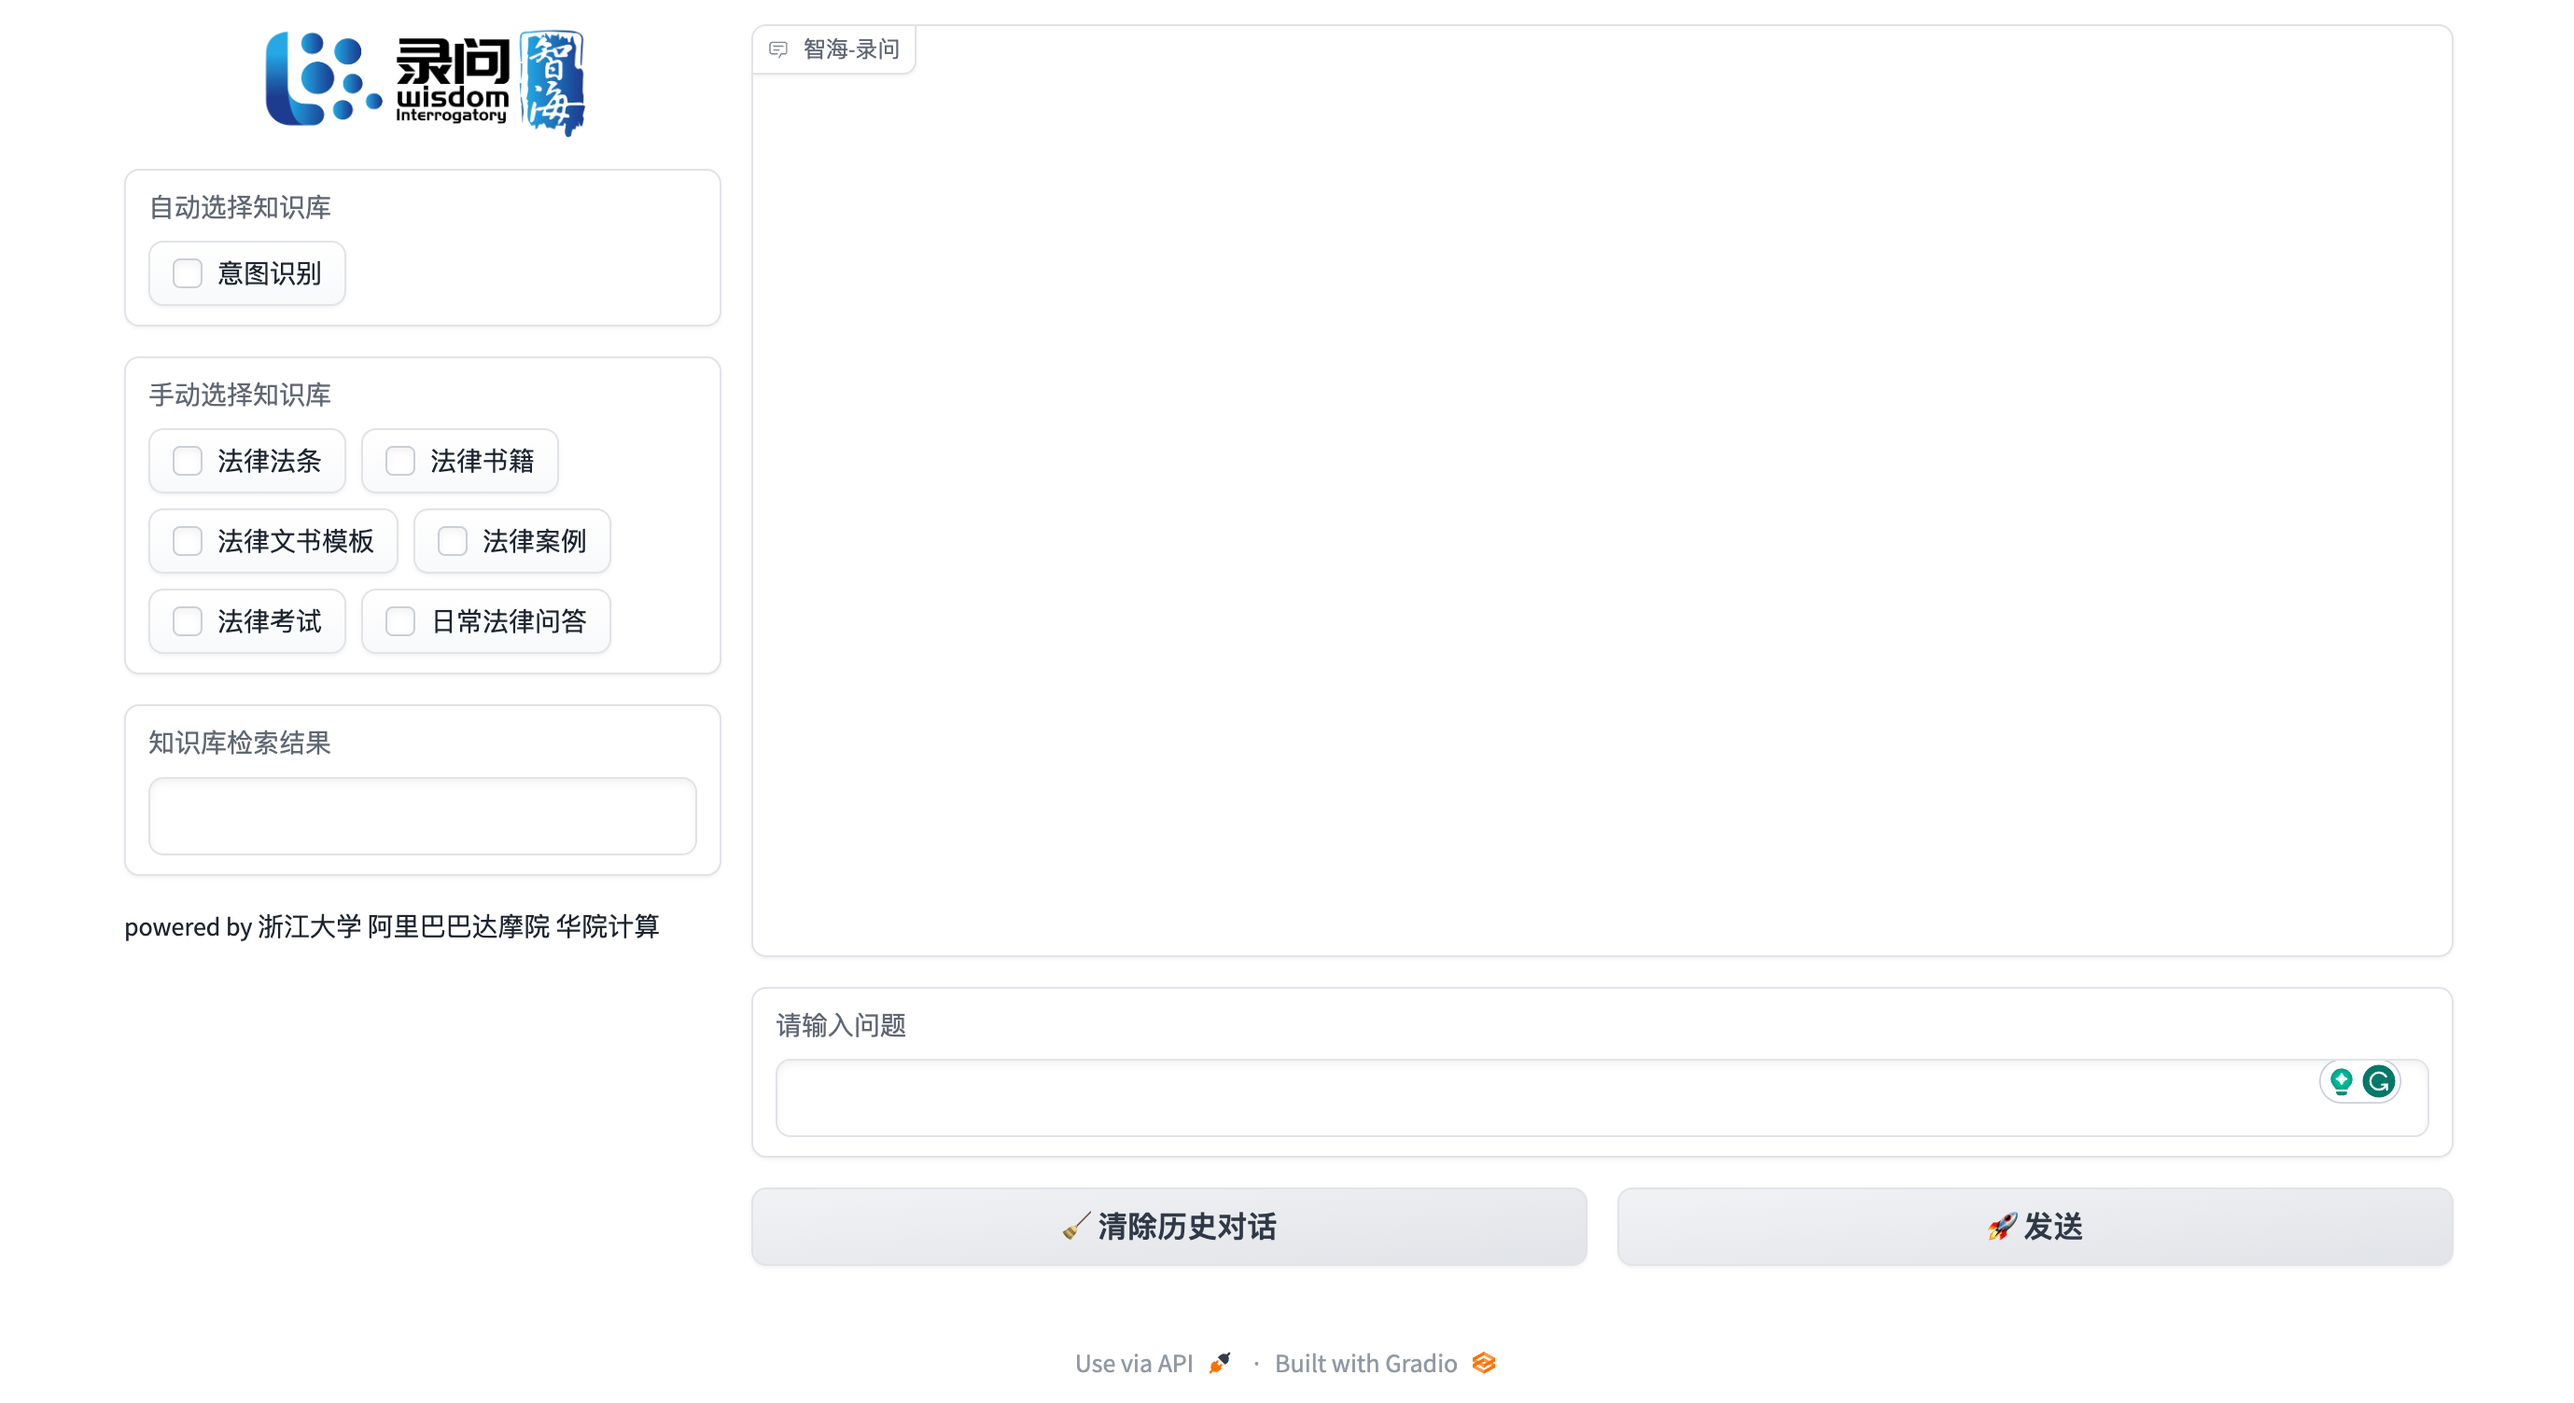
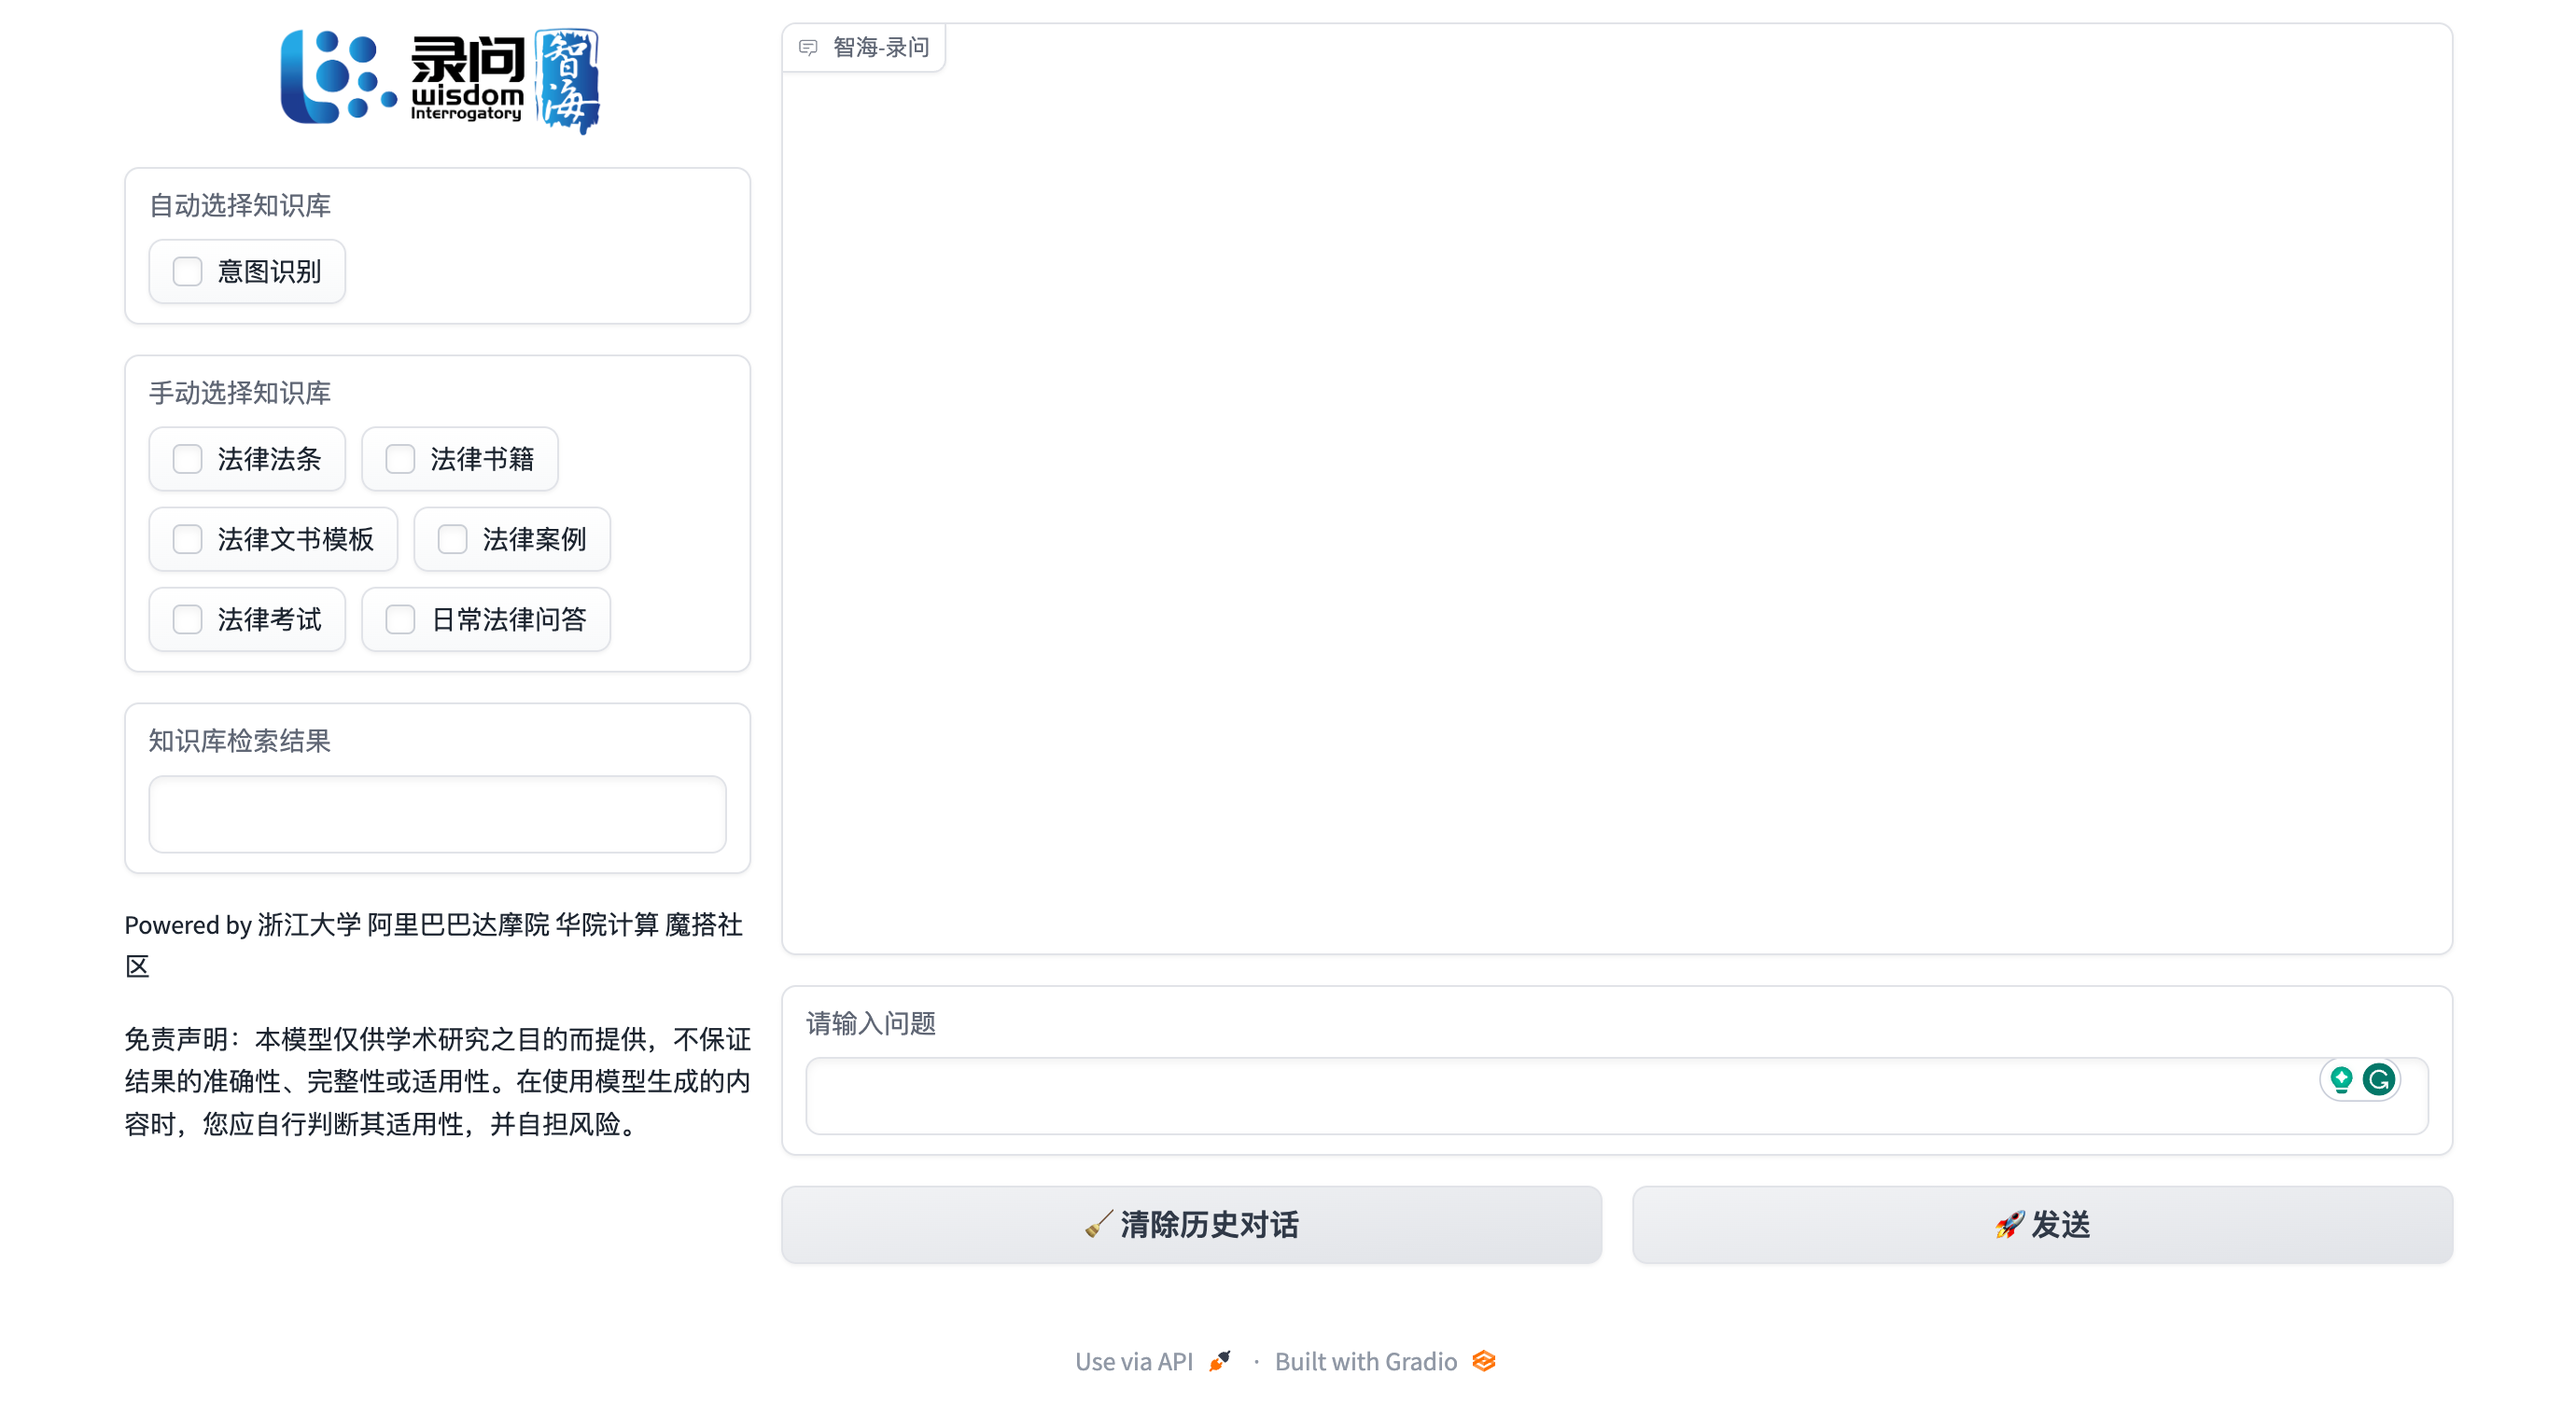
update readme

diff --git a/app/langchain_demo/code/main_stream.py b/app/langchain_demo/code/main_stream.py
@@ -50,6 +50,11 @@ def predict(input,
 
     if intention_reg==["意图识别"]:
         auto_kg_names = key_words_match_intention(input)
+        if len(auto_kg_names)==0:
+            search_text += "意图识别没有匹配到知识库。\n\n"
+        else:
+            match_kg_names = "、".join(list(auto_kg_names))
+            search_text += "意图识别匹配到知识库是："+match_kg_names+"。\n\n"
         kg_names = list(set(kg_names) | auto_kg_names)
 
     kb_based = True if len(kg_names) != 0 else False
@@ -128,7 +133,7 @@ def predict(input,
 with gr.Blocks() as demo: 
     state = gr.State()
     with gr.Row():
-        with gr.Column(scale=1):
+        with gr.Column(scale=1.5):
             github_banner_path = 'https://raw.githubusercontent.com/LIANG-star177/chatgptapi/master/logo.png'
             gr.HTML(f'<p align="center"><a href="https://github.com/LIANG-star177/chatgptapi/blob/master/logo.png"><img src={github_banner_path} height="100" width="200"/></a></p>')
             with gr.Row():       
@@ -145,8 +150,9 @@ with gr.Blocks() as demo:
                 search = gr.Textbox(label='知识库检索结果')
 
             with gr.Row():
-                gr.Markdown("""powered by 浙江大学 阿里巴巴达摩院 华院计算""")
-
+                gr.Markdown("""Powered by 浙江大学 阿里巴巴达摩院 华院计算 魔搭社区""")
+            with gr.Row():
+                gr.Markdown("""免责声明：本模型仅供学术研究之目的而提供，不保证结果的准确性、完整性或适用性。在使用模型生成的内容时，您应自行判断其适用性，并自担风险。""")
         with gr.Column(scale=4):
             with gr.Row():
                 chatbot = gr.Chatbot(label='智海-录问').style(height=500)            

diff --git a/app/langchain_demo/code/main_stream_wo_kb.py b/app/langchain_demo/code/main_stream_wo_kb.py
@@ -4,7 +4,6 @@ import re
 import torch
 import gradio as gr
 import sys
-sys.path.append("/root/data1/luwen/app/langchain_demo/code")
 from clc.langchain_application import LangChainApplication
 from transformers import StoppingCriteriaList, StoppingCriteriaList
 from clc.callbacks import Iteratorize, Stream
@@ -60,6 +59,7 @@ def predict(input,
     if len(input) > max_memory:
         input = input[-max_memory:]
 
+    kb_based = False
     print("histroy in call: ", history)
     prompt = application.llm_service.generate_prompt(input, kb_based, large_language_model)
     print("prompt: ",prompt)
@@ -115,8 +115,9 @@ with gr.Blocks() as demo:
                 clear_history = gr.Button("🧹 清除历史对话")
                 send = gr.Button("🚀 发送")
             with gr.Row():
-                gr.Markdown("""<center>powered by 浙江大学 阿里巴巴达摩院 华院计算</center>""")
-
+                gr.Markdown("""<center>Powered by 浙江大学 阿里巴巴达摩院 华院计算 魔搭社区</center>""")
+            with gr.Row():
+                gr.Markdown("""<center>免责声明：本模型仅供学术研究之目的而提供，不保证结果的准确性、完整性或适用性。在使用模型生成的内容时，您应自行判断其适用性，并自担风险。<center>""")
         send.click(predict,
                    inputs=[
                     message,

diff --git a/README.md b/README.md
@@ -17,7 +17,7 @@
 
 ### 指令微调训练
 
-经过了二次预训练之后，在指令微调阶段，我们使用了80k的指微调训练，其目的是让大模型具备问答的能力，能够直接与用户进行交流。
+经过了二次预训练之后，在指令微调阶段，我们使用了100k的指微调训练，其目的是让大模型具备问答的能力，能够直接与用户进行交流。
 
 
 1.  **数据分布**
@@ -126,15 +126,18 @@
 - 任何一个知识点都是一个[key, value]的pair，其中key是该知识点的内容简介，用于检索，而value是知识点的具体内容，用于输入到模型中作为参考。
 
 ### 知识增强
-![Alt text](pics/知识增强.png)
+![Alt text](pics/知识增强_2.png)
 1. **知识定位**
-- 意图识别
-不同问题需要不同类型的知识库来辅助问答，首先需要识别出问题意图获取哪些知识。我们通过问题中的关键词和上述五种类型知识库的特征的关键词匹配，以此识别出问题涉及的知识类型并用对应知识库辅助。
+- 意图识别（多步检索）
 
-- 知识检索
-知识库内部可以按照层级划分，比如法条库可以按照法律（刑法，民法）划分成子知识库，而刑法又可以按罪名所在章节划分成更细粒度的子知识库。我们通过检索模型embedding进行多层级的相似度匹配，逐步定位到能辅助回答问题的具体知识。具体地，我们给每一个划分出的子知识库加上描述性语言和所包含的知识的概述性语言，以此来和问题做相似度匹配。对于最后一次的知识检索，知识内容本身直接和问题做相似度匹配。
+不同问题需要不同类型的知识库来辅助问答，首先需要识别出问题意图获取哪些知识。我们通过问题中的关键词和上述五种类型知识库的特征的关键词匹配，以此识别出问题涉及的知识类型并用对应知识库辅助。通过识别问题意图，缩小需要检索的知识库范围，减少易混淆知识带来的影响，提升检索精确度。
+
+- 知识检索（多路检索）
+
+检索的时候，同时采用统计特征层面的检索和语义特征层面的检索。（1）对于统计特征，我们预先提取知识库中每条知识的关键词，比如法条库中每条法条的关键词是所属法律和法条条数，我们使用fuzzy matching提取问题中的关键词和知识关键词匹配获取相关知识；（2）对于语义特征，我们使用向量相似度检索，为了提升检索精确度，我们预先准备每条知识对应的摘要，向量检索时使用知识摘要和问题进行相似度计算，找到相关知识后替换成具体知识。
 
 - 检索模型训练
+
 为了获得更好的检索效果，我们额外利用对比学习训练了检索模型的embedding，具体地，我们将案例所对应的真实法条、类似案例、相关书籍描述等知识作为正例，并通过随机抽取和易混淆抽取（抽取和案例相似度高但并不对应的知识）两种方式获取负例。
 
 2. **知识融合**
@@ -281,17 +284,43 @@ resp = generate_response(prompt)
 print(resp)
 ```
 
-<!-- 3. **界面** -->
+3. **界面**
+![Alt text](pics/界面.png)
+功能介绍：
+- 在“请输入问题”框中输入问题，并点击发送，模型就会做出对应的回答，如果继续输入，那么就会执行多轮对话，如果希望重新开始一次对话，那么就点击“清除历史对话”。
+- 在模型问答的基础上，可以通过检索相关知识以作为输入的补充。勾选“意图匹配”，则会自动匹配到相关知识库，可同时“手动选择知识库”，与自动识别的知识库做合并后检索。
+- “知识库检索结果”中会显示检索到的最相关的知识。
 
 
+## 模型效果
+以下是模型推理、意图识别和知识检索的效果图：
+
+1. **模型推理**
+
+![Alt text](pics/效果图_模型推理1.png)
+
+![Alt text](pics/效果图_模型推理2.png)
+
+2. **意图识别**
+
+![Alt text](pics/效果图_意图识别.png)
+
+3. **知识检索**
+
+![Alt text](pics/效果图_知识检索.png)
 
 ## 未来方向
+1. **知识库检索**
 
-1. **评测矩阵**
+目前通过纯embedding匹配的检索效果仍然一般，后面考虑设计一套流程，可以自动训练得到针对某一知识库的专用检索模型。
+
+2. **评测矩阵**
+
 为了更好的评估大模型的能力，我们设计了一个评测矩阵，从**司法能力**、**通用能力**以及**安全能力**三个角度展开评测，目前数据仍在收集构造中。
-![Alt text](pics/评测矩阵2.jpg)
+![Alt text](pics/评测矩阵.jpg)
 
-2. **多模态能力**
+3. **多模态能力**
+
 尽管大多数法律数据都以文本形式出现，但法律场景中，仍有许多其他形式的数据，如录音、图片、视频等，因此多模态的能力也很重要，下图是一个多模态应用场景的例子。
 ![Alt text](pics/多模态.png)
 
